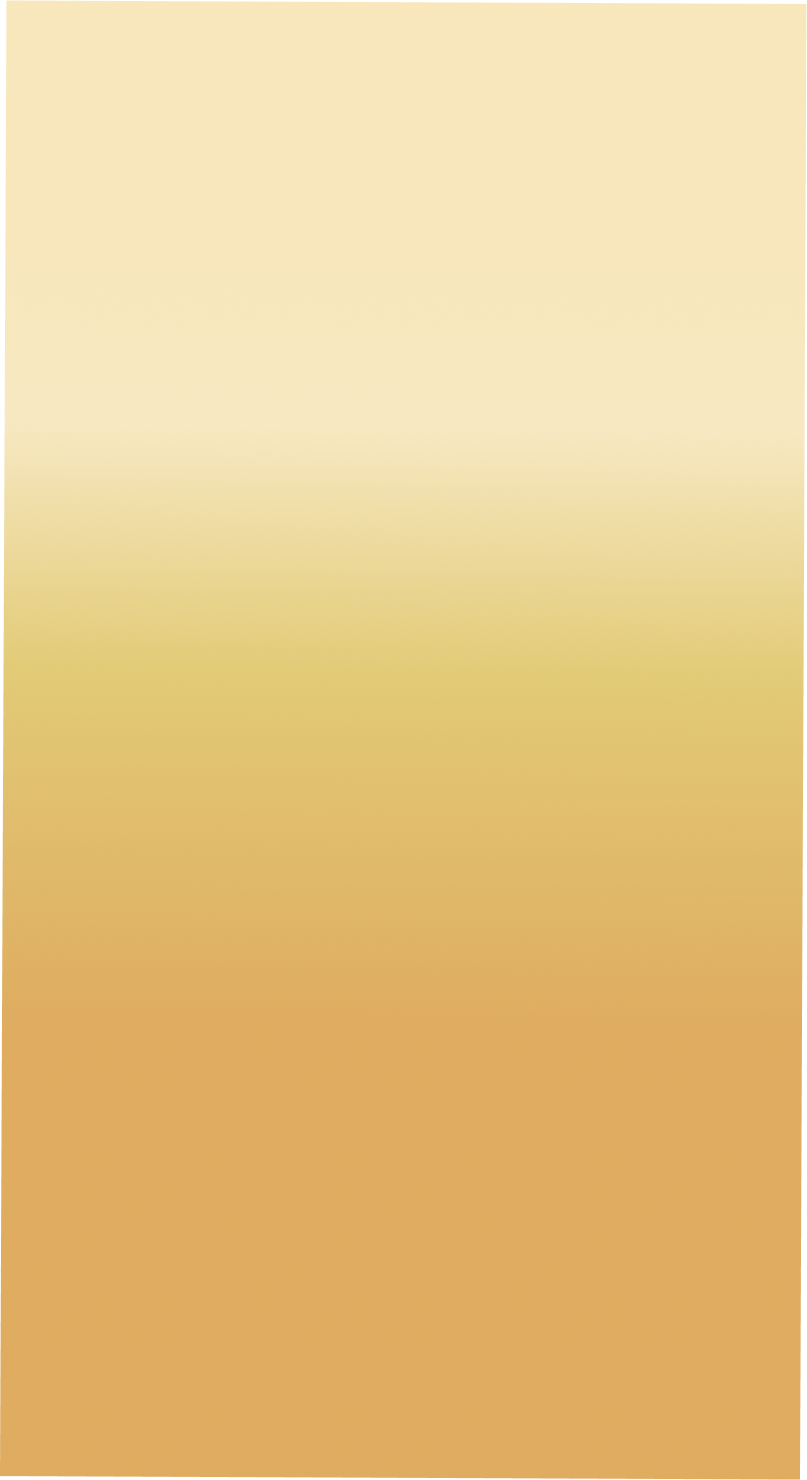
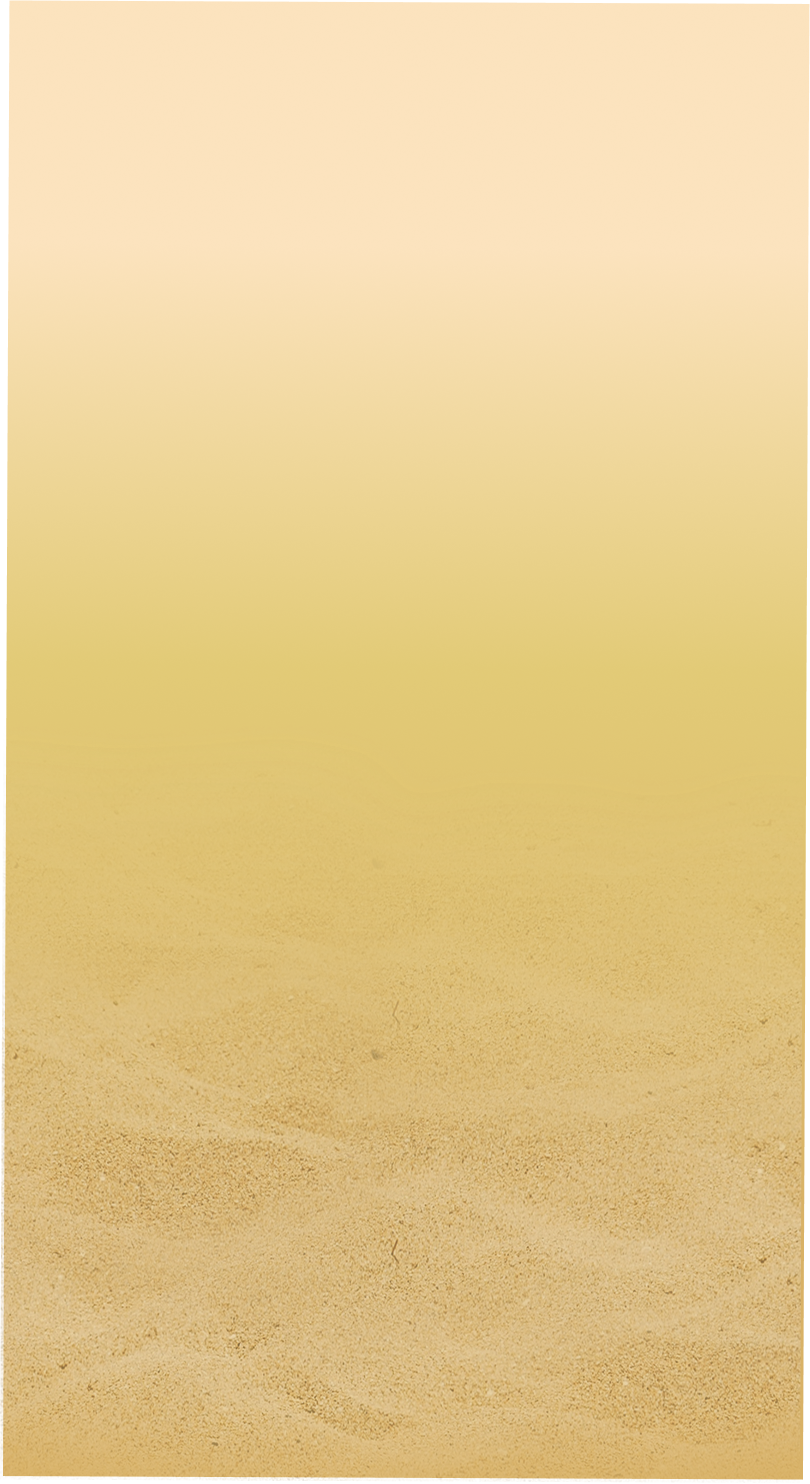
feat: new backgrounds for project view and new svg depends on status

Changed region(s): [[0.0, 0.0, 1.0, 1.0]]

diff --git a/Sources/views/parameters_view.tsx b/Sources/views/parameters_view.tsx
@@ -201,13 +201,13 @@ const styles = StyleSheet.create({
   },
   // Title
   titlecontainer: {
-    display: "flex",
     flexDirection: "row",
     justifyContent: "center",
     alignItems: "center",
+    marginTop: verticalScale(7),
   },
   title: {
-    fontSize: moderateScale(40),
+    fontSize: moderateScale(30),
     color: "#414141",
     fontWeight: "bold"
   },

diff --git a/Sources/components/button_back_navigation_component.tsx b/Sources/components/button_back_navigation_component.tsx
@@ -31,8 +31,8 @@ const styles = StyleSheet.create({
         justifyContent: 'flex-start',
     },
     icon: {
-        width: horizontalScale(40),
-        height: verticalScale(40),
+        width: horizontalScale(30),
+        height: verticalScale(30),
     },
 });
   
